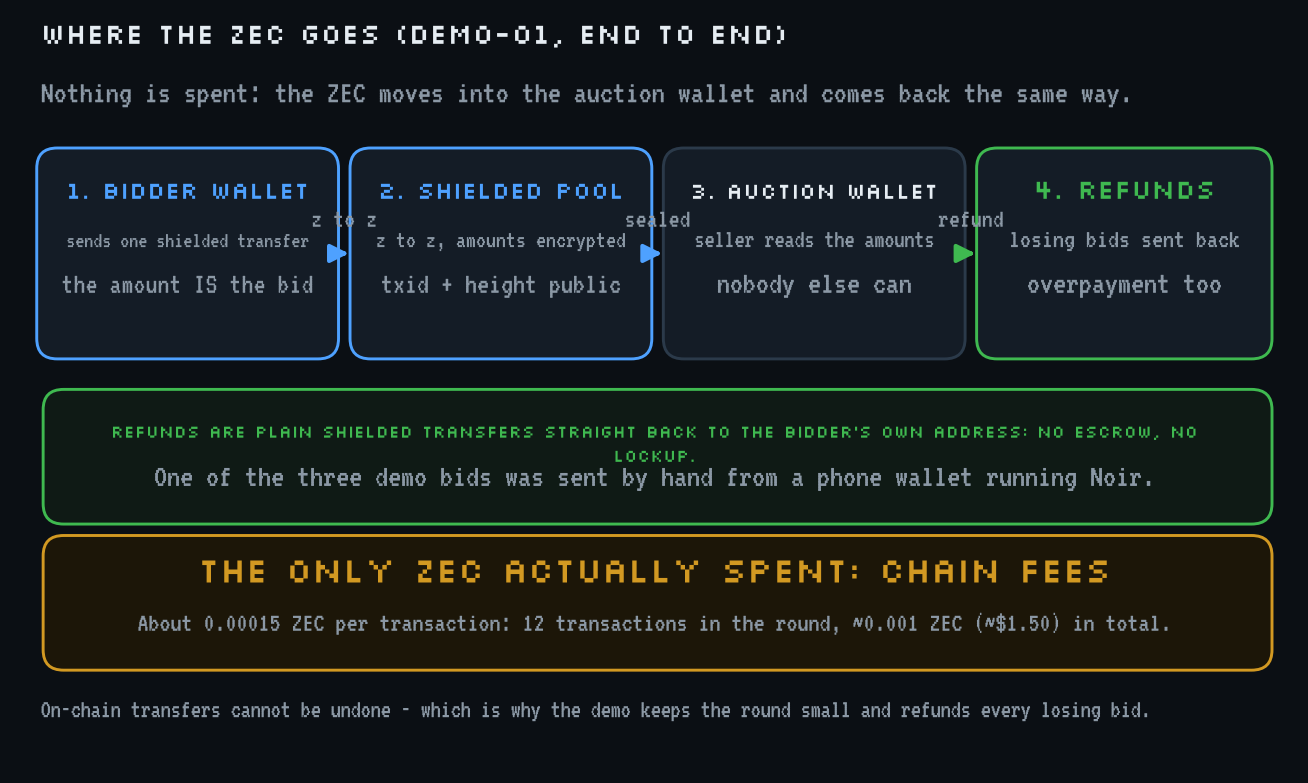
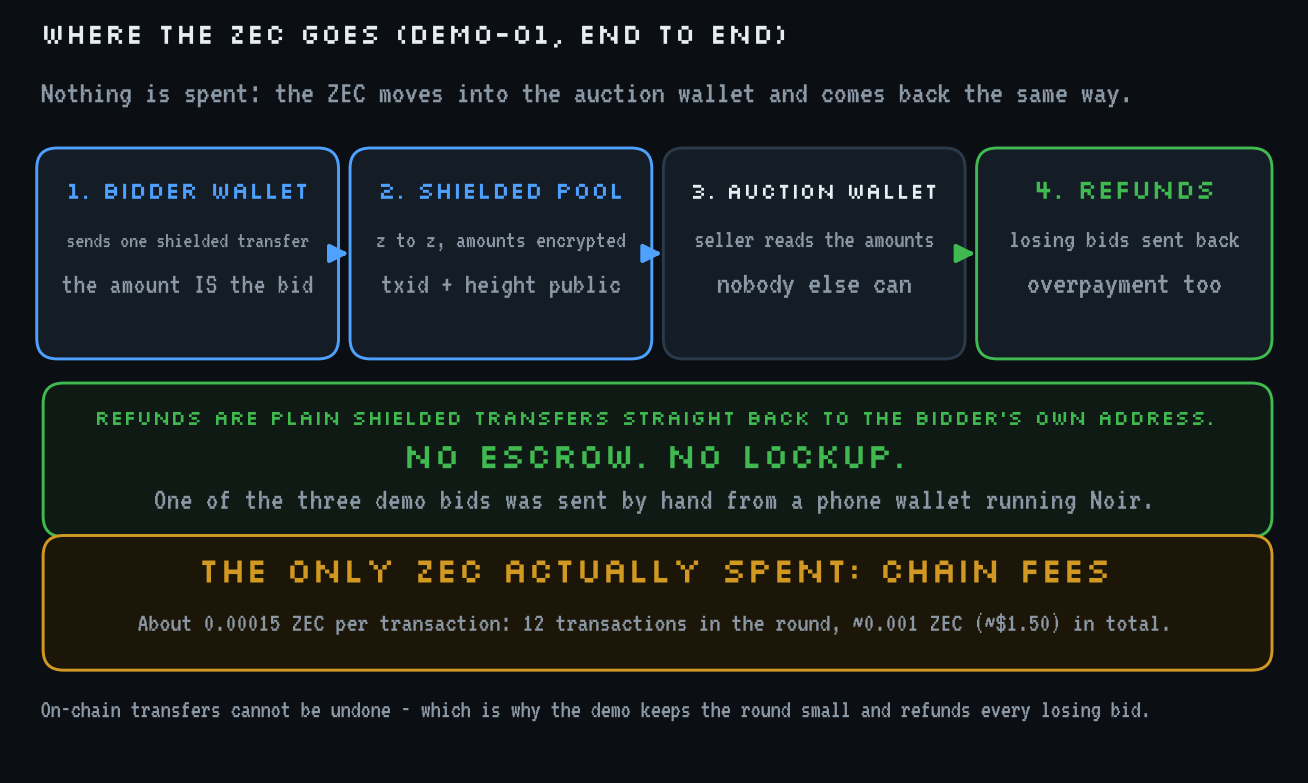
refund flow card: drop the squeezed arrow micro-labels, give the refund strip its own lines

diff --git a/tools/make_refund_flow.py b/tools/make_refund_flow.py
@@ -36,23 +36,22 @@ box(76, 33, 21.5, 15, "4. refunds",
     ["losing bids sent back", "overpayment too"], edge=C.GOOD, tcolor=C.GOOD)
 
 
-def arrow(x1, x2, y=40.5, color=C.ACC, txt=None):
+def arrow(x1, x2, y=40.5, color=C.ACC):
     ax.add_patch(FancyArrowPatch((x1, y), (x2, y), arrowstyle="-|>", mutation_scale=18,
                                  linewidth=2.0, color=color, shrinkA=0, shrinkB=0))
-    if txt:
-        C.fit(ax, (x1 + x2) / 2, y + 2.1, txt, 8, size=13, color=C.DIM, ha="center")
 
 
-arrow(25.4, 26.1, txt="z to z")
-arrow(49.9, 50.6, txt="sealed")
-arrow(74.4, 75.1, color=C.GOOD, txt="refund")
+arrow(25.4, 26.1)
+arrow(49.9, 50.6)
+arrow(74.4, 75.1, color=C.GOOD)
 
-ax.add_patch(FancyBboxPatch((3, 20), 94.5, 9.0, boxstyle="round,pad=0.8,rounding_size=1.6",
+ax.add_patch(FancyBboxPatch((3, 19), 94.5, 10.5, boxstyle="round,pad=0.8,rounding_size=1.6",
                             linewidth=1.4, edgecolor=C.GOOD, facecolor="#0f1a15"))
-C.fit(ax, 50, 26.0, "Refunds are plain shielded transfers straight back to the bidder's own address: "
-      "no escrow, no lockup.", 88, size=17, head=True, color=C.GOOD, ha="center")
-C.fit(ax, 50, 22.2, "One of the three demo bids was sent by hand from a phone wallet running Noir.",
-      88, size=16, color=C.DIM, ha="center")
+C.fit(ax, 50, 27.0, "Refunds are plain shielded transfers straight back to the bidder's own address.",
+      88, size=17, head=True, color=C.GOOD, ha="center")
+C.fit(ax, 50, 23.6, "No escrow. No lockup.", 88, size=17, head=True, color=C.GOOD, ha="center")
+C.fit(ax, 50, 20.4, "One of the three demo bids was sent by hand from a phone wallet running Noir.",
+      88, size=15, color=C.DIM, ha="center")
 
 ax.add_patch(FancyBboxPatch((3, 8.5), 94.5, 9.0, boxstyle="round,pad=0.8,rounding_size=1.6",
                             linewidth=1.4, edgecolor=C.WARN, facecolor="#1c1608"))
